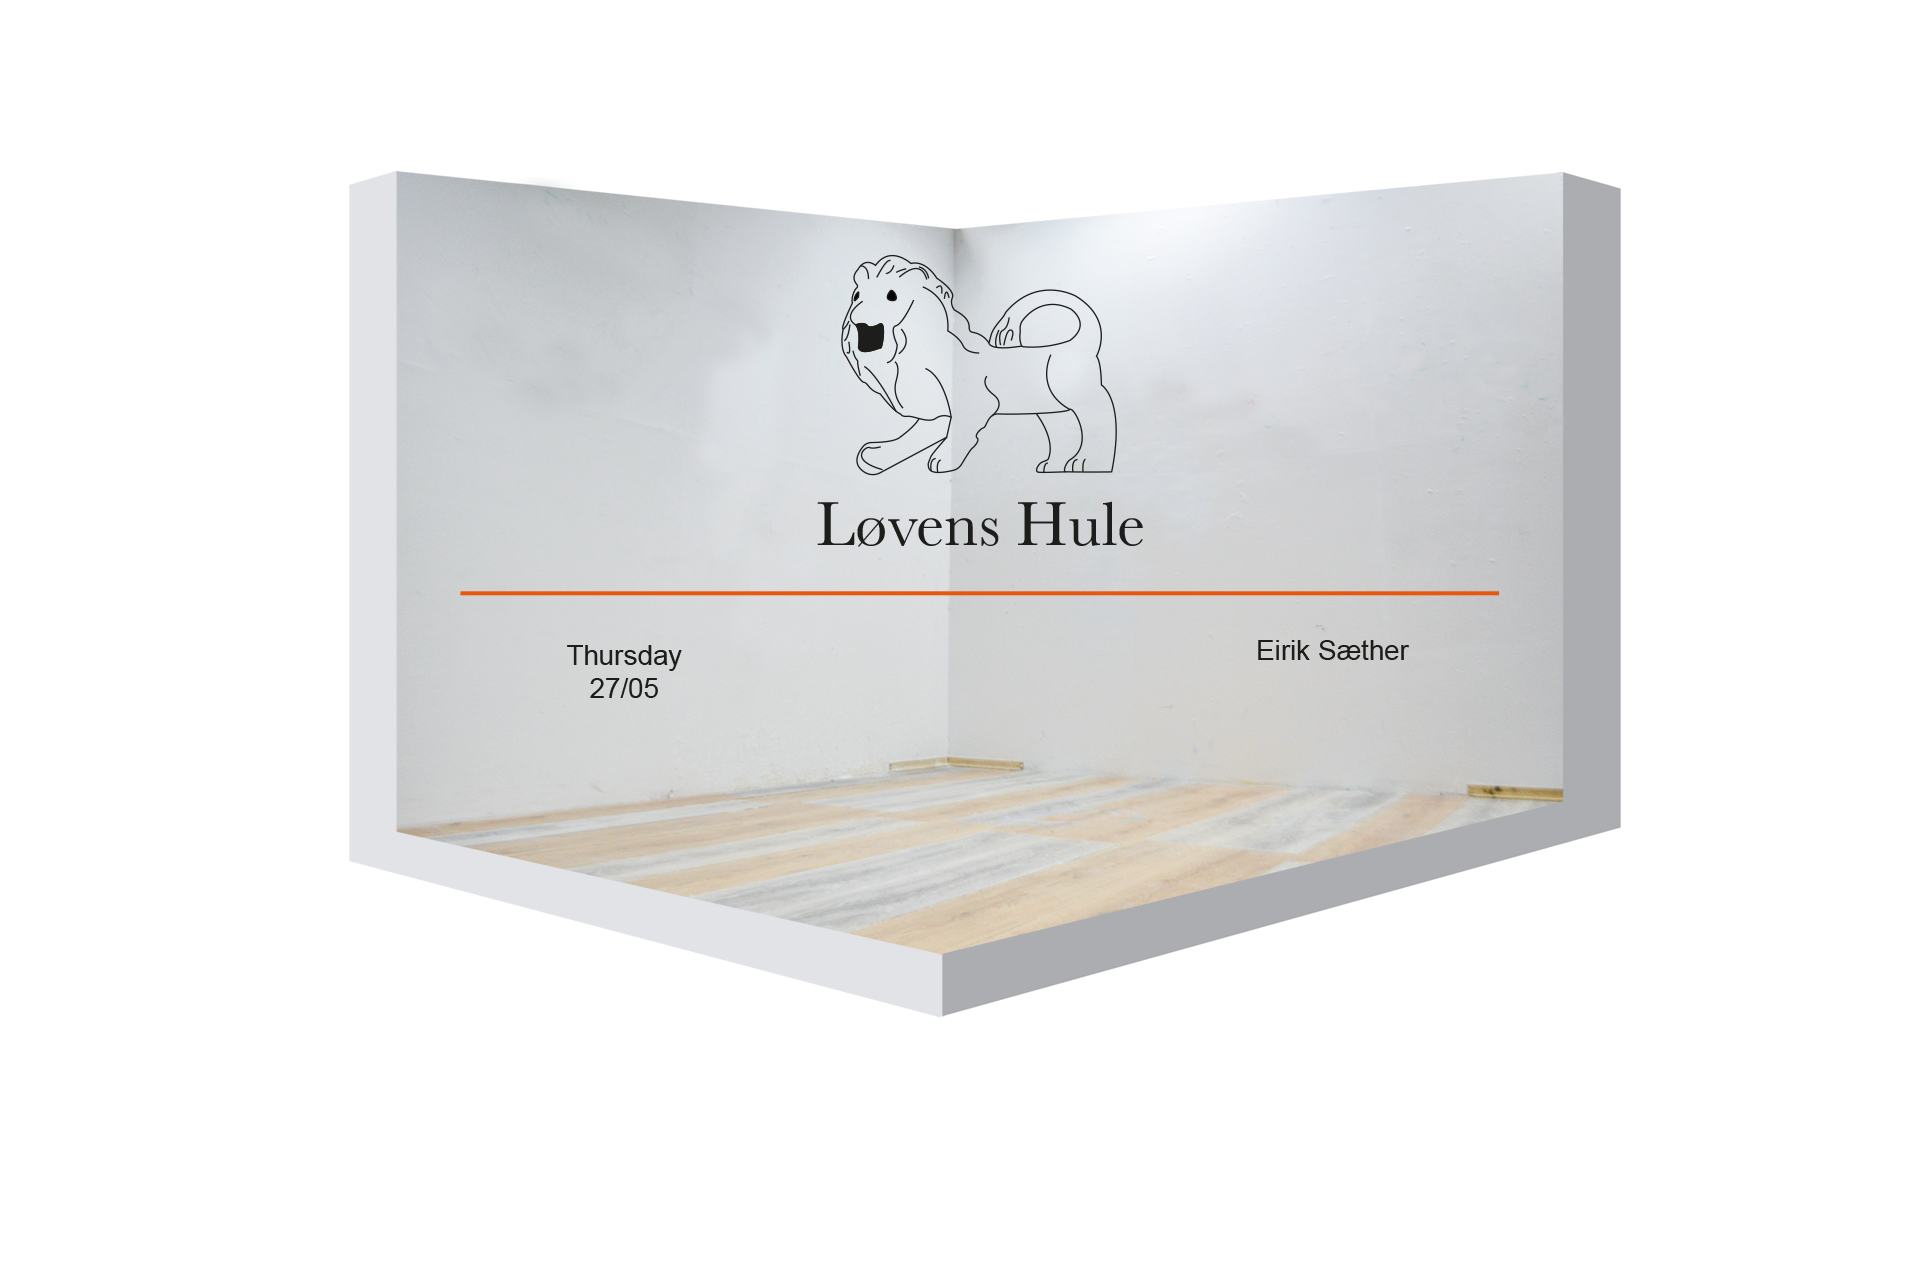
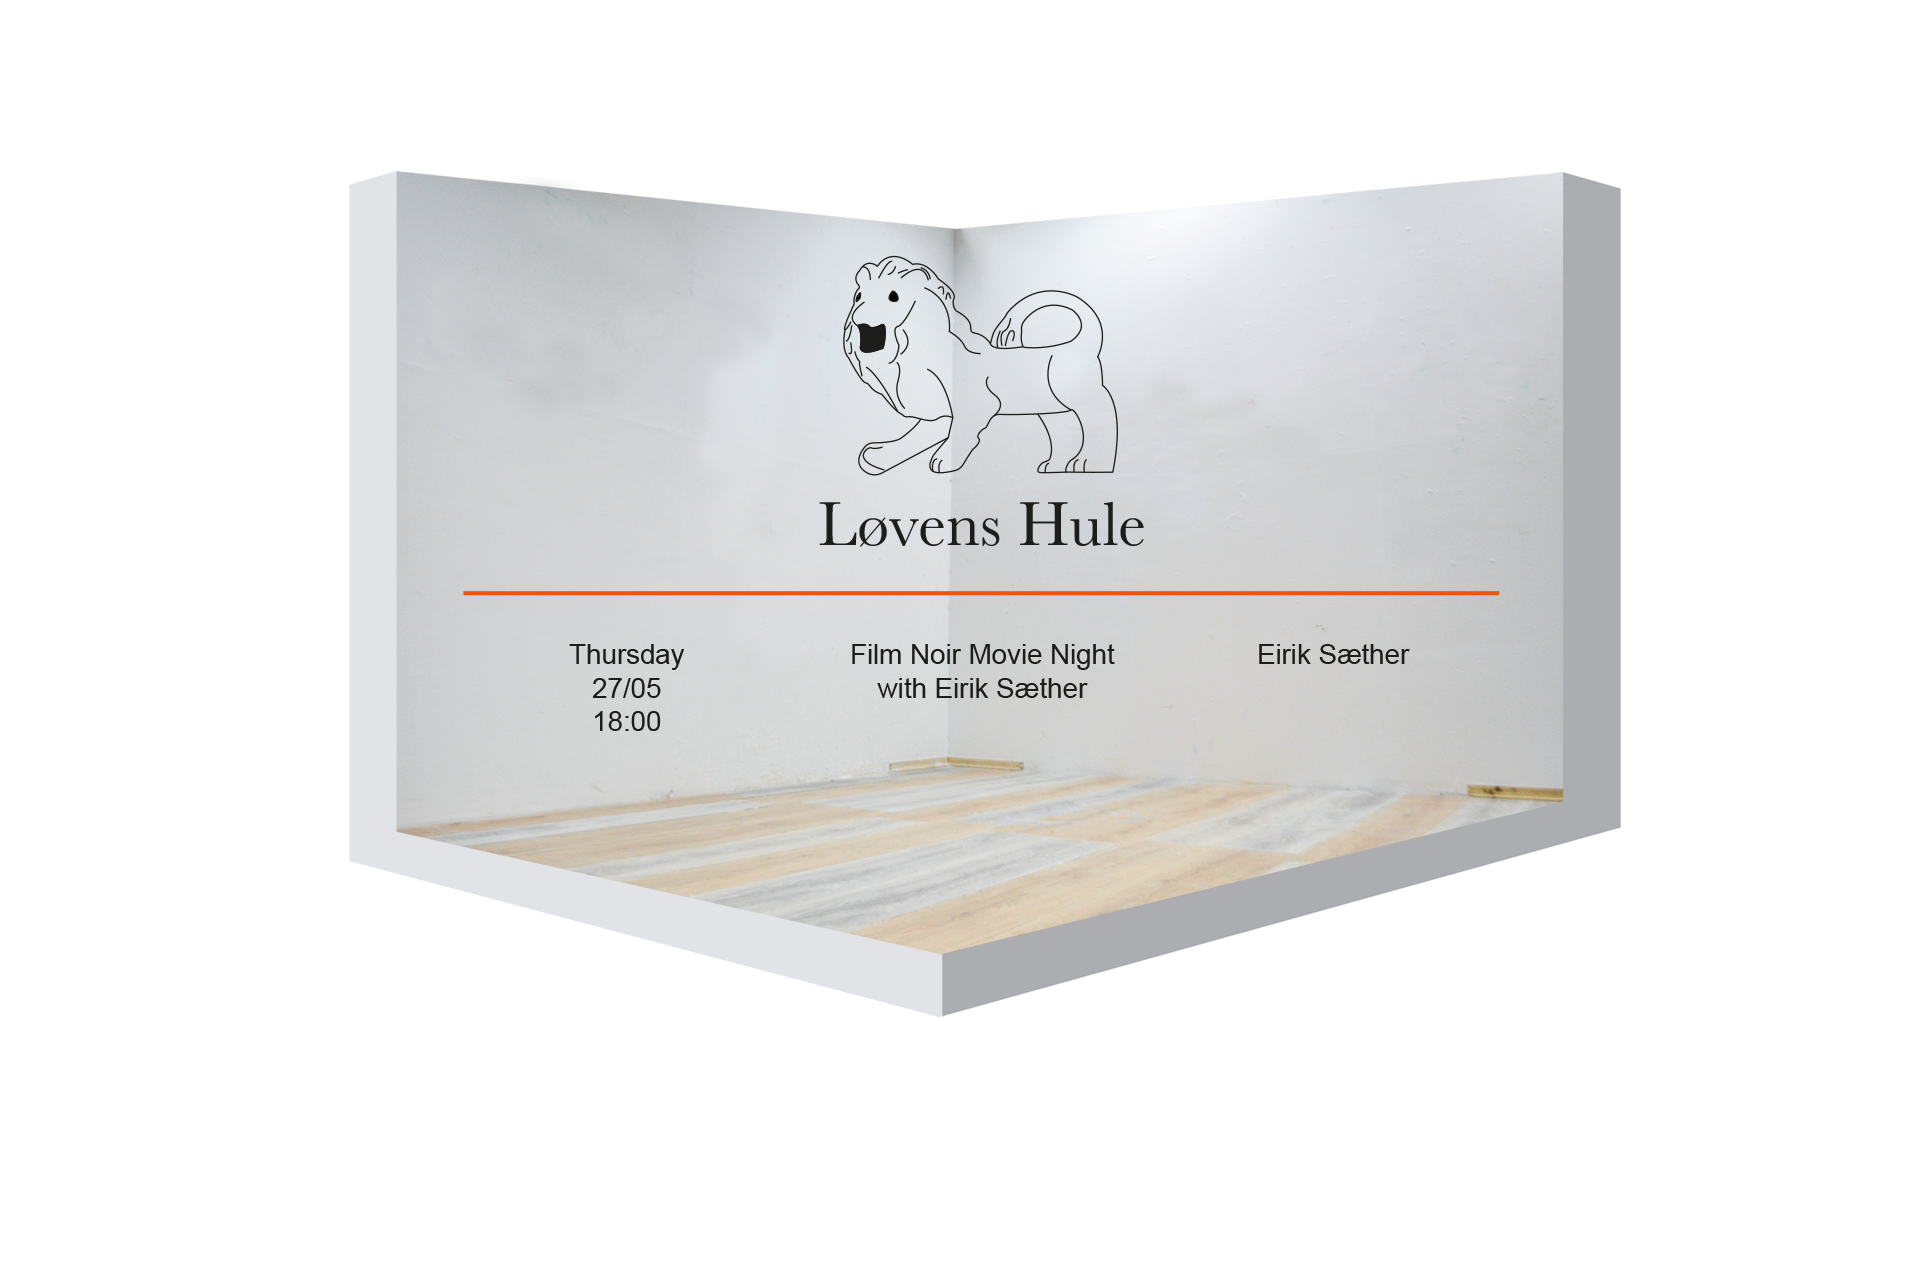
Update Eirik

diff --git a/index.html b/index.html
@@ -2,30 +2,88 @@
 <html>
 <head>
   <link rel="stylesheet" href="style.css">
-  <link rel="shortcut icon" type="image/png" href="billeder/løvelogosort.png">	
+  <link rel="shortcut icon" type="image/png" href="billeder/løvelogosort.png">  
   <meta name="viewport" content="width=device-width, initial-scale=1.0">
   <title>Løvens Hule</title>
-  <meta name = "description=" content = "Løvens Hule is an artist run exhibition space based in Oslo, Norway"/>
+    <meta name = "description=" content = "Løvens Hule is an artist run exhibition space based in Oslo, Norway"/>
+    
+    <meta property="og:title" content="Løvens Hule">
+  <meta property="og:description" content="Heavey Blankets">
+  <meta property="og:link" content="http://loevenshule.gallery/index.html">
+  <meta property="og:url" content="http://loevenshule.gallery/index.html">
   <!-- JQUERY CDN  -->
   <script src="https://code.jquery.com/jquery-3.5.1.min.js" integrity="sha256-9/aliU8dGd2tb6OSsuzixeV4y/faTqgFtohetphbbj0=" crossorigin="anonymous"></script>
   <script>
     jQuery(document).ready(function(e) {
+        jQuery(".shuffle-img").on("click", function(e) {
+          $next = jQuery(this).data("next");
+          $src = jQuery(".img-change").attr("src");
+          jQuery(".img-change").attr("src", $next);
+          jQuery(this).data("next", $src); // Setting the next for next click (shuffle)
+          if( $next == "billeder/eirik/2.jpeg") {
+            jQuery(".fig-under").text('Movie still');
+          } else {
+            jQuery(".fig-under").text('');
+          }
+        });
+      // IF AUDIO - PLAY IT ON START
+      // You have to set the class of it-audio-auto-play on the audio HTML-tag for this to work
+      if( $(".it-audio-auto-play").length > 0 ) {
+          $('.it-audio-auto-play').each(function(){
+              this.play(); 
+          }); 
+      }
+
+        
+      // SHOW LIGHTBOX 
       jQuery(".exh-wrapper a").on("click", function(e) {
         e.preventDefault(); 
+
+        // IF ANY AUDIO STOP IT
+        if( $('audio').length > 0 ) {
+          $('audio').each(function(){
+              this.pause(); 
+          }); 
+        }
         $href = e.currentTarget.getAttribute("xlink:href")
         jQuery(".imageLightbox").fadeIn(399);
         jQuery(".imageLightbox").css("display", "flex");
-
-        jQuery(".imageLightbox").html('<img src="' + $href + '"/>');
+        // IF VIDEO
+        $file_array = $href.split(".");
+        if( $file_array[$file_array.length-1] == 'mp4' ) { // ONLY MP4 format
+          jQuery(".imageLightbox").html(`
+            <video width="960" height="540" controls>
+            <source src="${$href}" type="video/mp4">
+            Your browser does not support the video tag.
+            </video> 
+          `);
+        } else { 
+        // ELSE IMAGE
+          jQuery(".imageLightbox").html('<img src="' + $href + '"/>');
+        }
+        
+        // REMOVE LIGHTBOX
         jQuery(".imageLightbox").on("click", function(a) {
-          if(a.target == this) { // Only if wrapper parent is clicked
-            debugger;
-            jQuery(this).fadeOut(399);
+          // IF ANY AUDIO START IT AGAIN
+          if( $('audio').length > 0 ) {
+            $('audio').each(function(){
+                this.play(); 
+            }); 
           }
+          
+          if(a.target == this) { // Only if wrapper parent is clicked
+            jQuery(this).fadeOut(399);
+            jQuery(this).children(['img', 'video']).remove();
+          }
+
+
+
+
         });
       });
     });
   </script> 
+
 </head>
 
 <body>
@@ -38,7 +96,6 @@
         <img src="billeder/løvelogohvid.png" alt="Løvens Hule" style="width:80px;">
         </a></div>
   <ul class="menu">
-    </li>
     <li><a href="index.html" style="font-family: Baskerville; font-size: 17px">Løvens Hule</a></li>
     <br>
     <li><a href="index">Current</a></li>
@@ -49,20 +106,30 @@
     <li><a class="instagram" href="https://www.instagram.com/loevenshule.gallery/" target="_blank">Instagram</a></li>
   </ul>
 </div>
+<style type="text/css">
+figure {
+  display: table;
+}
+.fig-above {
+  display: table-caption;
+  caption-side: top;
+  font-size: 16px;
+  color: white;
+}
+.fig-under {
+  font-size: 12px;
+}
+</style>
+<figure style="width: 440px; left:50%; top:50%; position: absolute; margin-left: -220px; margin-top: -300px; cursor: pointer;" class="shuffle-img" data-next="billeder/eirik/2.jpeg">
+  <img style="width: 100%;" class="img-change" src="billeder/eirik/1.jpeg">
+  <figcaption class="fig-under"></figcaption>
+  <figcaption class="fig-above">Film Noir Movie Night With Eirik</figcaption>
 
-<?xml version="1.0" encoding="utf-8"?>
-<!-- Generator: Adobe Illustrator 19.0.0, SVG Export Plug-In . SVG Version: 6.00 Build 0)  -->
-<div>
-<svg version="1.1" id="Layer_1" xmlns="http://www.w3.org/2000/svg" xmlns:xlink="http://www.w3.org/1999/xlink" x="0px" y="0px"
-	 viewBox="0 0 1920 1080" style="enable-background:new 0 0 1920 1080;" xml:space="preserve">
+</figure>
 
-<image style="overflow:visible;" width="6016" height="4000" id="XMLID_7_" xlink:href="billeder/eirik/plakat.png"  transform="matrix(0.3053 0 0 0.3053 22.5319 -70.684)">
-</image>
-
-</svg>
-</div>
 
 
 </body>
 </html>
+
 

diff --git a/plakatindex.html b/plakatindex.html
@@ -1,0 +1,68 @@
+<!DOCTYPE html>
+<html>
+<head>
+  <link rel="stylesheet" href="style.css">
+  <link rel="shortcut icon" type="image/png" href="billeder/løvelogosort.png">	
+  <meta name="viewport" content="width=device-width, initial-scale=1.0">
+  <title>Løvens Hule</title>
+  <meta name = "description=" content = "Løvens Hule is an artist run exhibition space based in Oslo, Norway"/>
+  <!-- JQUERY CDN  -->
+  <script src="https://code.jquery.com/jquery-3.5.1.min.js" integrity="sha256-9/aliU8dGd2tb6OSsuzixeV4y/faTqgFtohetphbbj0=" crossorigin="anonymous"></script>
+  <script>
+    jQuery(document).ready(function(e) {
+      jQuery(".exh-wrapper a").on("click", function(e) {
+        e.preventDefault(); 
+        $href = e.currentTarget.getAttribute("xlink:href")
+        jQuery(".imageLightbox").fadeIn(399);
+        jQuery(".imageLightbox").css("display", "flex");
+
+        jQuery(".imageLightbox").html('<img src="' + $href + '"/>');
+        jQuery(".imageLightbox").on("click", function(a) {
+          if(a.target == this) { // Only if wrapper parent is clicked
+            debugger;
+            jQuery(this).fadeOut(399);
+          }
+        });
+      });
+    });
+  </script> 
+</head>
+
+<body>
+  <div class="imageLightbox">
+  </div>
+
+<div>
+    <div class="LH">
+    <a href="index.html">
+        <img src="billeder/løvelogohvid.png" alt="Løvens Hule" style="width:80px;">
+        </a></div>
+  <ul class="menu">
+    </li>
+    <li><a href="index.html" style="font-family: Baskerville; font-size: 17px">Løvens Hule</a></li>
+    <br>
+    <li><a href="index">Current</a></li>
+    <li><a href="exhibitions">Exhibitions</a></li>
+    <li><a href="rateart">RateArt</a></li>
+    <li><a href="about">About</a></li>
+    <br>
+    <li><a class="instagram" href="https://www.instagram.com/loevenshule.gallery/" target="_blank">Instagram</a></li>
+  </ul>
+</div>
+
+<?xml version="1.0" encoding="utf-8"?>
+<!-- Generator: Adobe Illustrator 19.0.0, SVG Export Plug-In . SVG Version: 6.00 Build 0)  -->
+<div>
+<svg version="1.1" id="Layer_1" xmlns="http://www.w3.org/2000/svg" xmlns:xlink="http://www.w3.org/1999/xlink" x="0px" y="0px"
+	 viewBox="0 0 1920 1080" style="enable-background:new 0 0 1920 1080;" xml:space="preserve">
+
+<image style="overflow:visible;" width="6016" height="4000" id="XMLID_7_" xlink:href="billeder/eirik/plakat.png"  transform="matrix(0.3053 0 0 0.3053 22.5319 -70.684)">
+</image>
+
+</svg>
+</div>
+
+
+</body>
+</html>
+

diff --git a/galleriindex.html b/galleriindex.html
@@ -109,21 +109,7 @@
   <a xlink:href="billeder/ohholiday/seals.mp4" >
     <polygon class="st0" points="548,509.5 865.6,486.2 865.6,308.1 548,279.1    "/>
   </a>
-  <a xlink:href="billeder/ohholiday/2.jpg" >
-    <polygon class="st0" points="1145.9,280.2 1145.9,458.9 1263.4,467 1264.1,270.5    "/>
-  </a>
-  <a xlink:href="billeder/ohholiday/3.jpg" >
-    <polygon class="st0" points="1313.9,265 1313.9,468.9 1456,475.1 1456,252.1    "/>
-  </a>
-  <a xlink:href="billeder/ohholiday/1.jpg" >
-    <polygon class="st0" points="1106.9,284.2 1020.7,293.2 1020.7,454 1106.9,458.8    "/>
-  </a>
-  <a xlink:href="billeder/ohholiday/presse.jpg" >
-    <rect x="1612.7" y="259" class="st0" width="61.5" height="87.3"/>
-  </a>
-  <a xlink:href="billeder/ohholiday/plan.jpg" >
-    <rect x="1612.7" y="362.6" class="st0" width="61.5" height="87.3"/>
-  </a>
+  
   
 </svg>
 
